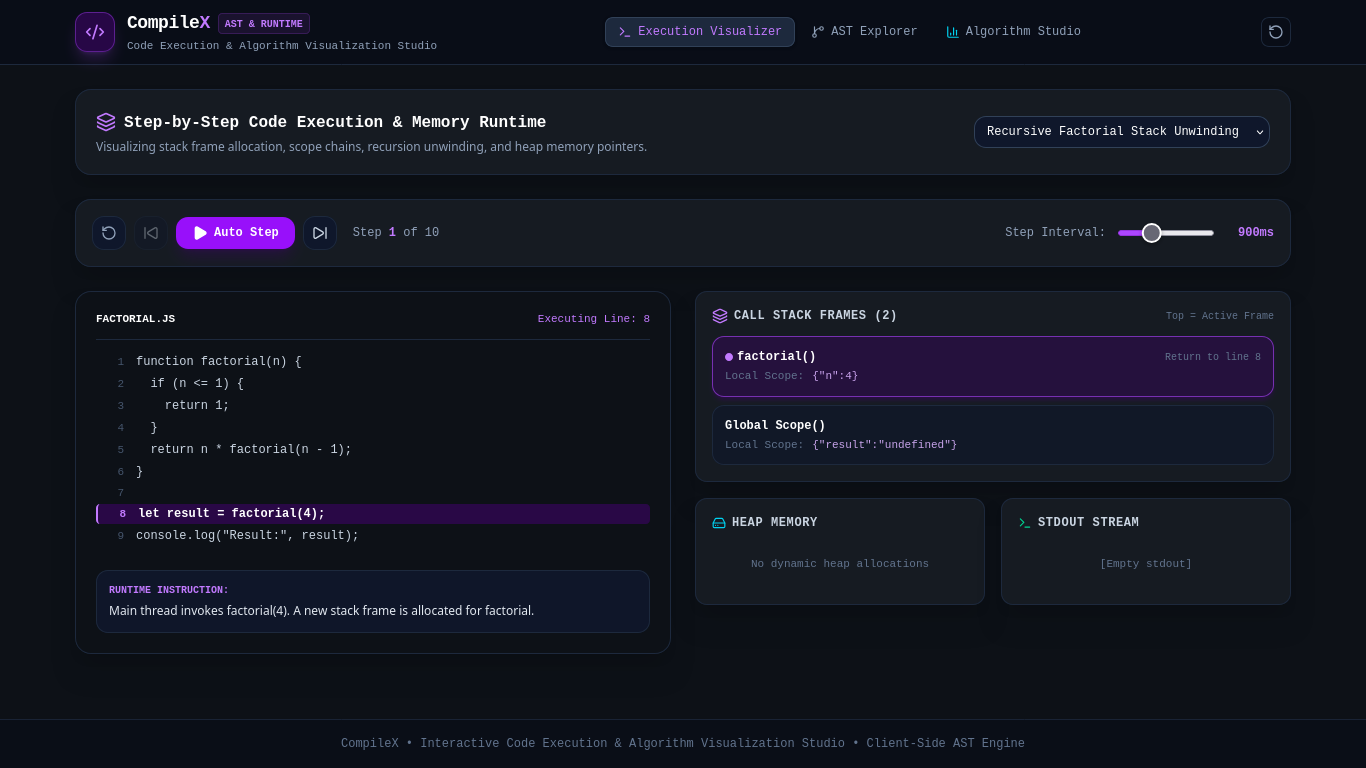
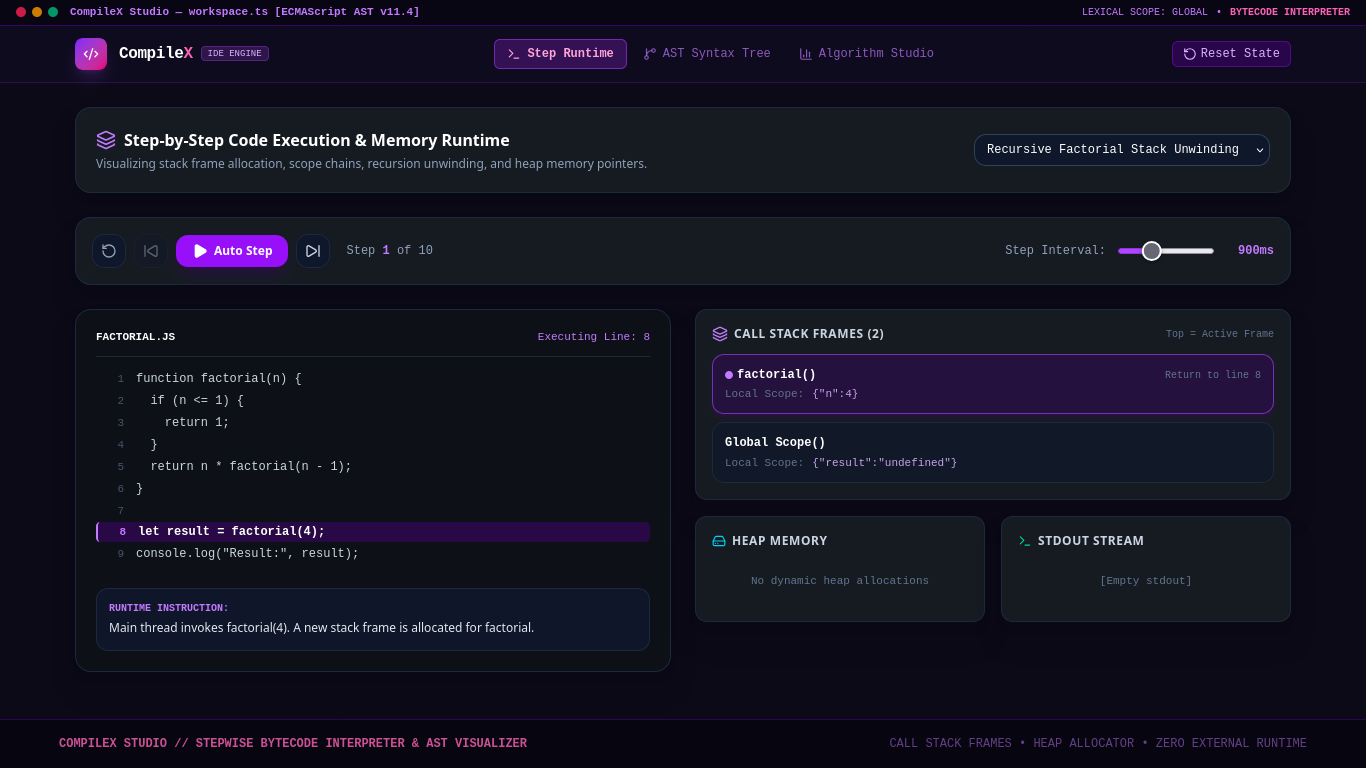
style(compilex): radical redesign to dark violet and hot magenta IDE studio

diff --git a/src/components/layout/Navbar.tsx b/src/components/layout/Navbar.tsx
@@ -5,9 +5,10 @@ import {
   Layers, 
   GitBranch, 
   BarChart3, 
-  RotateCcw,
+  RotateCcw, 
   Sparkles,
-  Terminal
+  Terminal,
+  Cpu
 } from 'lucide-react';
 
 export const Navbar: React.FC = () => {
@@ -15,106 +16,106 @@ export const Navbar: React.FC = () => {
   const [showResetConfirm, setShowResetConfirm] = useState(false);
 
   return (
-    <header className="border-b border-slate-800 bg-[#0A0E17]/95 backdrop-blur sticky top-0 z-40">
+    <header className="border-b border-purple-900/40 bg-[#0e0b1f] sticky top-0 z-40">
+      {/* IDE Top Window Bar */}
+      <div className="bg-[#080612] border-b border-purple-950 px-4 py-1 text-[11px] font-mono text-purple-300 flex items-center justify-between">
+        <div className="flex items-center space-x-3">
+          <div className="flex items-center space-x-1.5">
+            <span className="w-2.5 h-2.5 rounded-full bg-rose-500/80 inline-block" />
+            <span className="w-2.5 h-2.5 rounded-full bg-amber-500/80 inline-block" />
+            <span className="w-2.5 h-2.5 rounded-full bg-emerald-500/80 inline-block" />
+          </div>
+          <span className="text-purple-400 font-semibold">CompileX Studio — workspace.ts [ECMAScript AST v11.4]</span>
+        </div>
+        <div className="flex items-center space-x-2 text-[10px] text-purple-400">
+          <span>LEXICAL SCOPE: GLOBAL</span>
+          <span>•</span>
+          <span className="text-pink-400 font-bold">BYTECODE INTERPRETER</span>
+        </div>
+      </div>
+
       <div className="max-w-7xl mx-auto px-4 sm:px-6 lg:px-8">
-        <div className="flex items-center justify-between h-16">
+        <div className="flex items-center justify-between h-14">
           {/* Brand */}
           <div className="flex items-center space-x-3 cursor-pointer" onClick={() => setActiveTab('editor')}>
-            <div className="w-10 h-10 rounded-xl bg-purple-950/60 border border-purple-500/40 flex items-center justify-center shadow-lg shadow-purple-500/20">
-              <Code2 className="w-5 h-5 text-purple-400" />
+            <div className="w-8 h-8 rounded-lg bg-gradient-to-br from-violet-600 to-pink-600 flex items-center justify-center shadow-lg shadow-purple-500/20">
+              <Code2 className="w-4 h-4 text-white" />
             </div>
             <div>
               <div className="flex items-center space-x-2">
-                <span className="font-bold text-lg tracking-tight text-white font-mono">Compile<span className="text-purple-400">X</span></span>
-                <span className="text-[10px] font-semibold uppercase px-1.5 py-0.5 rounded bg-purple-500/10 text-purple-400 border border-purple-500/20 font-mono">
-                  AST & RUNTIME
+                <span className="font-bold text-base tracking-tight text-white font-mono">
+                  Compile<span className="text-pink-400">X</span>
+                </span>
+                <span className="text-[9px] uppercase px-1.5 py-0.2 rounded bg-purple-500/20 text-purple-300 border border-purple-500/30 font-mono">
+                  IDE ENGINE
                 </span>
               </div>
-              <p className="text-[11px] text-slate-400 hidden sm:block">Code Execution & Algorithm Visualization Studio</p>
             </div>
           </div>
 
-          {/* Navigation */}
-          <nav className="hidden md:flex items-center space-x-1 font-mono">
+          {/* IDE Tabs */}
+          <nav className="flex items-center space-x-1 font-mono text-xs">
             <button
               onClick={() => setActiveTab('editor')}
-              className={`px-3 py-1.5 rounded-lg text-xs font-medium flex items-center space-x-1.5 transition-all ${
+              className={`px-3 py-1.5 rounded-md transition-all flex items-center space-x-1.5 ${
                 activeTab === 'editor'
-                  ? 'bg-slate-800 text-purple-400 border border-slate-700 shadow-sm'
-                  : 'text-slate-400 hover:text-white hover:bg-slate-800/50'
+                  ? 'bg-purple-900/50 text-pink-300 border border-purple-500/50 font-bold'
+                  : 'text-purple-400/70 hover:text-white hover:bg-purple-950/40'
               }`}
             >
               <Terminal className="w-3.5 h-3.5" />
-              <span>Execution Visualizer</span>
+              <span>Step Runtime</span>
             </button>
 
             <button
               onClick={() => setActiveTab('ast')}
-              className={`px-3 py-1.5 rounded-lg text-xs font-medium flex items-center space-x-1.5 transition-all ${
+              className={`px-3 py-1.5 rounded-md transition-all flex items-center space-x-1.5 ${
                 activeTab === 'ast'
-                  ? 'bg-slate-800 text-purple-400 border border-slate-700 shadow-sm'
-                  : 'text-slate-400 hover:text-white hover:bg-slate-800/50'
+                  ? 'bg-purple-900/50 text-pink-300 border border-purple-500/50 font-bold'
+                  : 'text-purple-400/70 hover:text-white hover:bg-purple-950/40'
               }`}
             >
               <GitBranch className="w-3.5 h-3.5" />
-              <span>AST Explorer</span>
+              <span>AST Syntax Tree</span>
             </button>
 
             <button
               onClick={() => setActiveTab('algorithms')}
-              className={`px-3 py-1.5 rounded-lg text-xs font-medium flex items-center space-x-1.5 transition-all ${
+              className={`px-3 py-1.5 rounded-md transition-all flex items-center space-x-1.5 ${
                 activeTab === 'algorithms'
-                  ? 'bg-slate-800 text-purple-400 border border-slate-700 shadow-sm'
-                  : 'text-slate-400 hover:text-white hover:bg-slate-800/50'
+                  ? 'bg-purple-900/50 text-pink-300 border border-purple-500/50 font-bold'
+                  : 'text-purple-400/70 hover:text-white hover:bg-purple-950/40'
               }`}
             >
-              <BarChart3 className="w-3.5 h-3.5 text-cyan-400" />
+              <BarChart3 className="w-3.5 h-3.5" />
               <span>Algorithm Studio</span>
             </button>
           </nav>
 
-          {/* Reset button */}
+          {/* Right Action */}
           <div className="flex items-center space-x-2">
             <button
               onClick={() => setShowResetConfirm(true)}
-              className="p-1.5 text-slate-400 hover:text-slate-200 hover:bg-slate-800 rounded-lg border border-slate-800 transition-colors"
-              title="Reset Sandbox"
+              className="px-2.5 py-1 rounded-md bg-purple-950/60 hover:bg-purple-900 border border-purple-800/60 text-purple-300 text-xs font-mono transition-all flex items-center space-x-1"
             >
-              <RotateCcw className="w-4 h-4" />
+              <RotateCcw className="w-3.5 h-3.5" />
+              <span className="hidden sm:inline">Reset State</span>
             </button>
           </div>
-        </div>
-
-        {/* Mobile Nav */}
-        <div className="flex md:hidden overflow-x-auto py-2 space-x-1 border-t border-slate-800/80 font-mono">
-          {(['editor', 'ast', 'algorithms'] as const).map((tab) => (
-            <button
-              key={tab}
-              onClick={() => setActiveTab(tab)}
-              className={`px-2.5 py-1 rounded text-xs whitespace-nowrap capitalize ${
-                activeTab === tab ? 'bg-purple-500/20 text-purple-400 border border-purple-500/30' : 'text-slate-400'
-              }`}
-            >
-              {tab}
-            </button>
-          ))}
         </div>
       </div>
 
       {showResetConfirm && (
-        <div className="fixed inset-0 z-50 bg-black/70 backdrop-blur-sm flex items-center justify-center p-4">
-          <div className="bg-[#161b22] border border-slate-700 rounded-2xl max-w-sm w-full p-5 shadow-2xl">
-            <div className="flex items-center space-x-3 text-purple-400 mb-3">
-              <RotateCcw className="w-6 h-6" />
-              <h3 className="font-semibold text-white text-base">Reset CompileX State?</h3>
-            </div>
-            <p className="text-xs text-slate-300 mb-4 leading-relaxed font-sans">
-              This will restore the default recursive factorial preset, reset the execution stepper, and reseed the algorithm visualization.
+        <div className="fixed inset-0 z-50 bg-black/80 backdrop-blur-xs flex items-center justify-center p-4">
+          <div className="bg-[#120f24] border border-purple-800 p-6 max-w-sm w-full font-mono text-purple-200 shadow-2xl rounded-xl">
+            <h3 className="text-sm font-bold text-pink-400">Reset Runtime Environment?</h3>
+            <p className="text-xs text-purple-300/70 mt-2">
+              All call stack frames, variable symbol tables, and AST parsing nodes will be reinitialized.
             </p>
-            <div className="flex justify-end space-x-2">
+            <div className="mt-4 flex justify-end space-x-2 text-xs">
               <button
                 onClick={() => setShowResetConfirm(false)}
-                className="px-3 py-1.5 rounded-lg text-xs font-medium text-slate-300 hover:bg-slate-800"
+                className="px-3 py-1 rounded bg-purple-950 border border-purple-800 text-purple-300"
               >
                 Cancel
               </button>
@@ -123,9 +124,9 @@ export const Navbar: React.FC = () => {
                   resetAll();
                   setShowResetConfirm(false);
                 }}
-                className="px-3 py-1.5 rounded-lg text-xs font-medium bg-purple-600 hover:bg-purple-500 text-white font-semibold"
+                className="px-3 py-1 rounded bg-pink-600 text-white font-bold hover:bg-pink-500"
               >
-                Reset
+                Reset Studio
               </button>
             </div>
           </div>

diff --git a/src/App.tsx b/src/App.tsx
@@ -1,15 +1,15 @@
 import React from 'react';
-import { useCompileXStore } from './store/useCompileXStore';
 import { Navbar } from './components/layout/Navbar';
 import { ExecutionVisualizer } from './components/visualizer/ExecutionVisualizer';
 import { ASTExplorer } from './components/ast/ASTExplorer';
 import { AlgorithmStudio } from './components/algorithms/AlgorithmStudio';
+import { useCompileXStore } from './store/useCompileXStore';
 
 export const App: React.FC = () => {
   const { activeTab } = useCompileXStore();
 
   return (
-    <div className="min-h-screen bg-[#0D1117] text-slate-100 flex flex-col font-mono selection:bg-purple-500/30 selection:text-purple-300">
+    <div className="min-h-screen bg-[#0c0a17] text-purple-100 flex flex-col font-sans selection:bg-pink-500 selection:text-white">
       <Navbar />
 
       <main className="flex-1 max-w-7xl w-full mx-auto px-4 sm:px-6 lg:px-8 py-6">
@@ -18,8 +18,11 @@ export const App: React.FC = () => {
         {activeTab === 'algorithms' && <AlgorithmStudio />}
       </main>
 
-      <footer className="border-t border-slate-800/80 bg-[#0A0E17] py-4 text-center text-xs text-slate-500 font-mono">
-        <p>CompileX • Interactive Code Execution & Algorithm Visualization Studio • Client-Side AST Engine</p>
+      <footer className="border-t border-purple-950/80 bg-[#07050f] py-4 text-center text-xs text-purple-400/60 font-mono">
+        <div className="max-w-7xl mx-auto px-4 flex flex-col sm:flex-row items-center justify-between gap-2">
+          <p className="text-pink-400/80 font-bold">COMPILEX STUDIO // STEPWISE BYTECODE INTERPRETER & AST VISUALIZER</p>
+          <p className="text-purple-400/50">CALL STACK FRAMES • HEAP ALLOCATOR • ZERO EXTERNAL RUNTIME</p>
+        </div>
       </footer>
     </div>
   );

diff --git a/src/index.css b/src/index.css
@@ -2,22 +2,21 @@
 
 @layer base {
   body {
-    font-family: 'Fira Code', 'JetBrains Mono', monospace;
+    background-color: #0c0a17;
+    color: #e2e8f0;
+    font-family: 'Plus Jakarta Sans', system-ui, -apple-system, sans-serif;
   }
-}
 
-/* Custom scrollbars */
-::-webkit-scrollbar {
-  width: 6px;
-  height: 6px;
-}
-::-webkit-scrollbar-track {
-  background: #0d1117;
-}
-::-webkit-scrollbar-thumb {
-  background: #21262d;
-  border-radius: 3px;
-}
-::-webkit-scrollbar-thumb:hover {
-  background: #30363d;
+  code, pre {
+    font-family: 'JetBrains Mono', monospace;
+  }
+
+  .ide-border {
+    border-color: rgba(139, 92, 246, 0.25);
+  }
+
+  .ide-panel {
+    background-color: #120f24;
+    border: 1px solid rgba(139, 92, 246, 0.2);
+  }
 }
